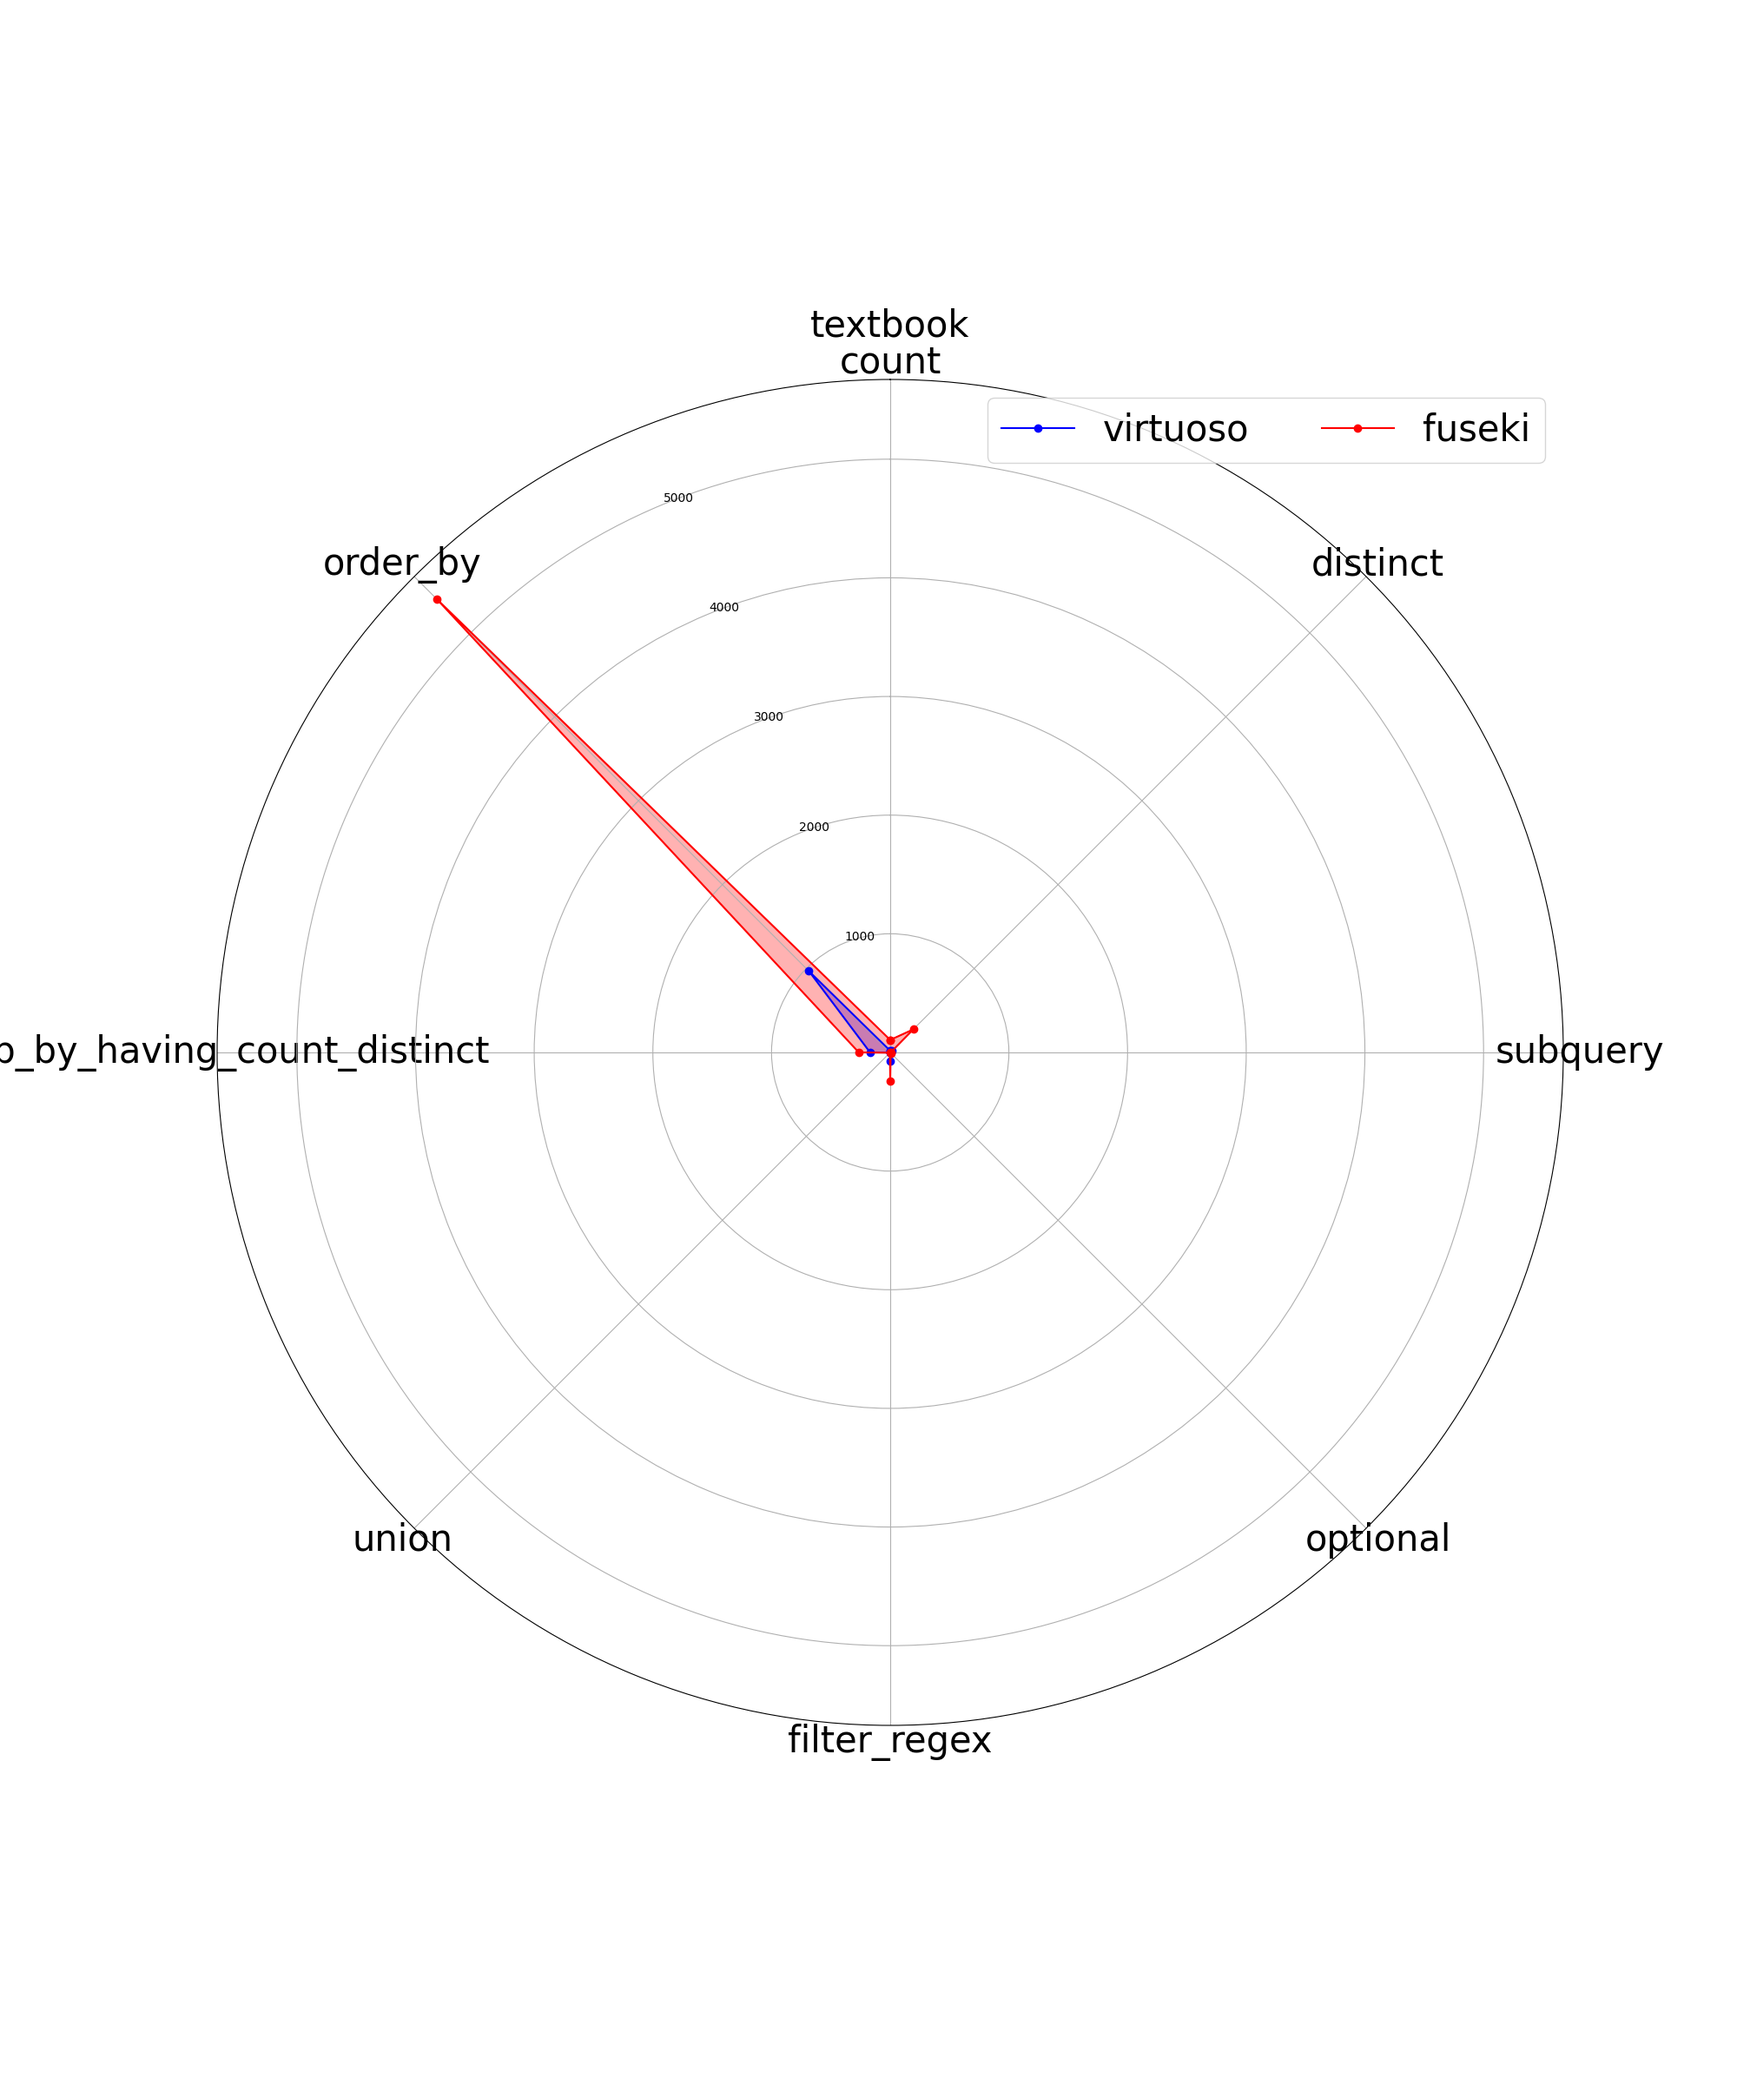
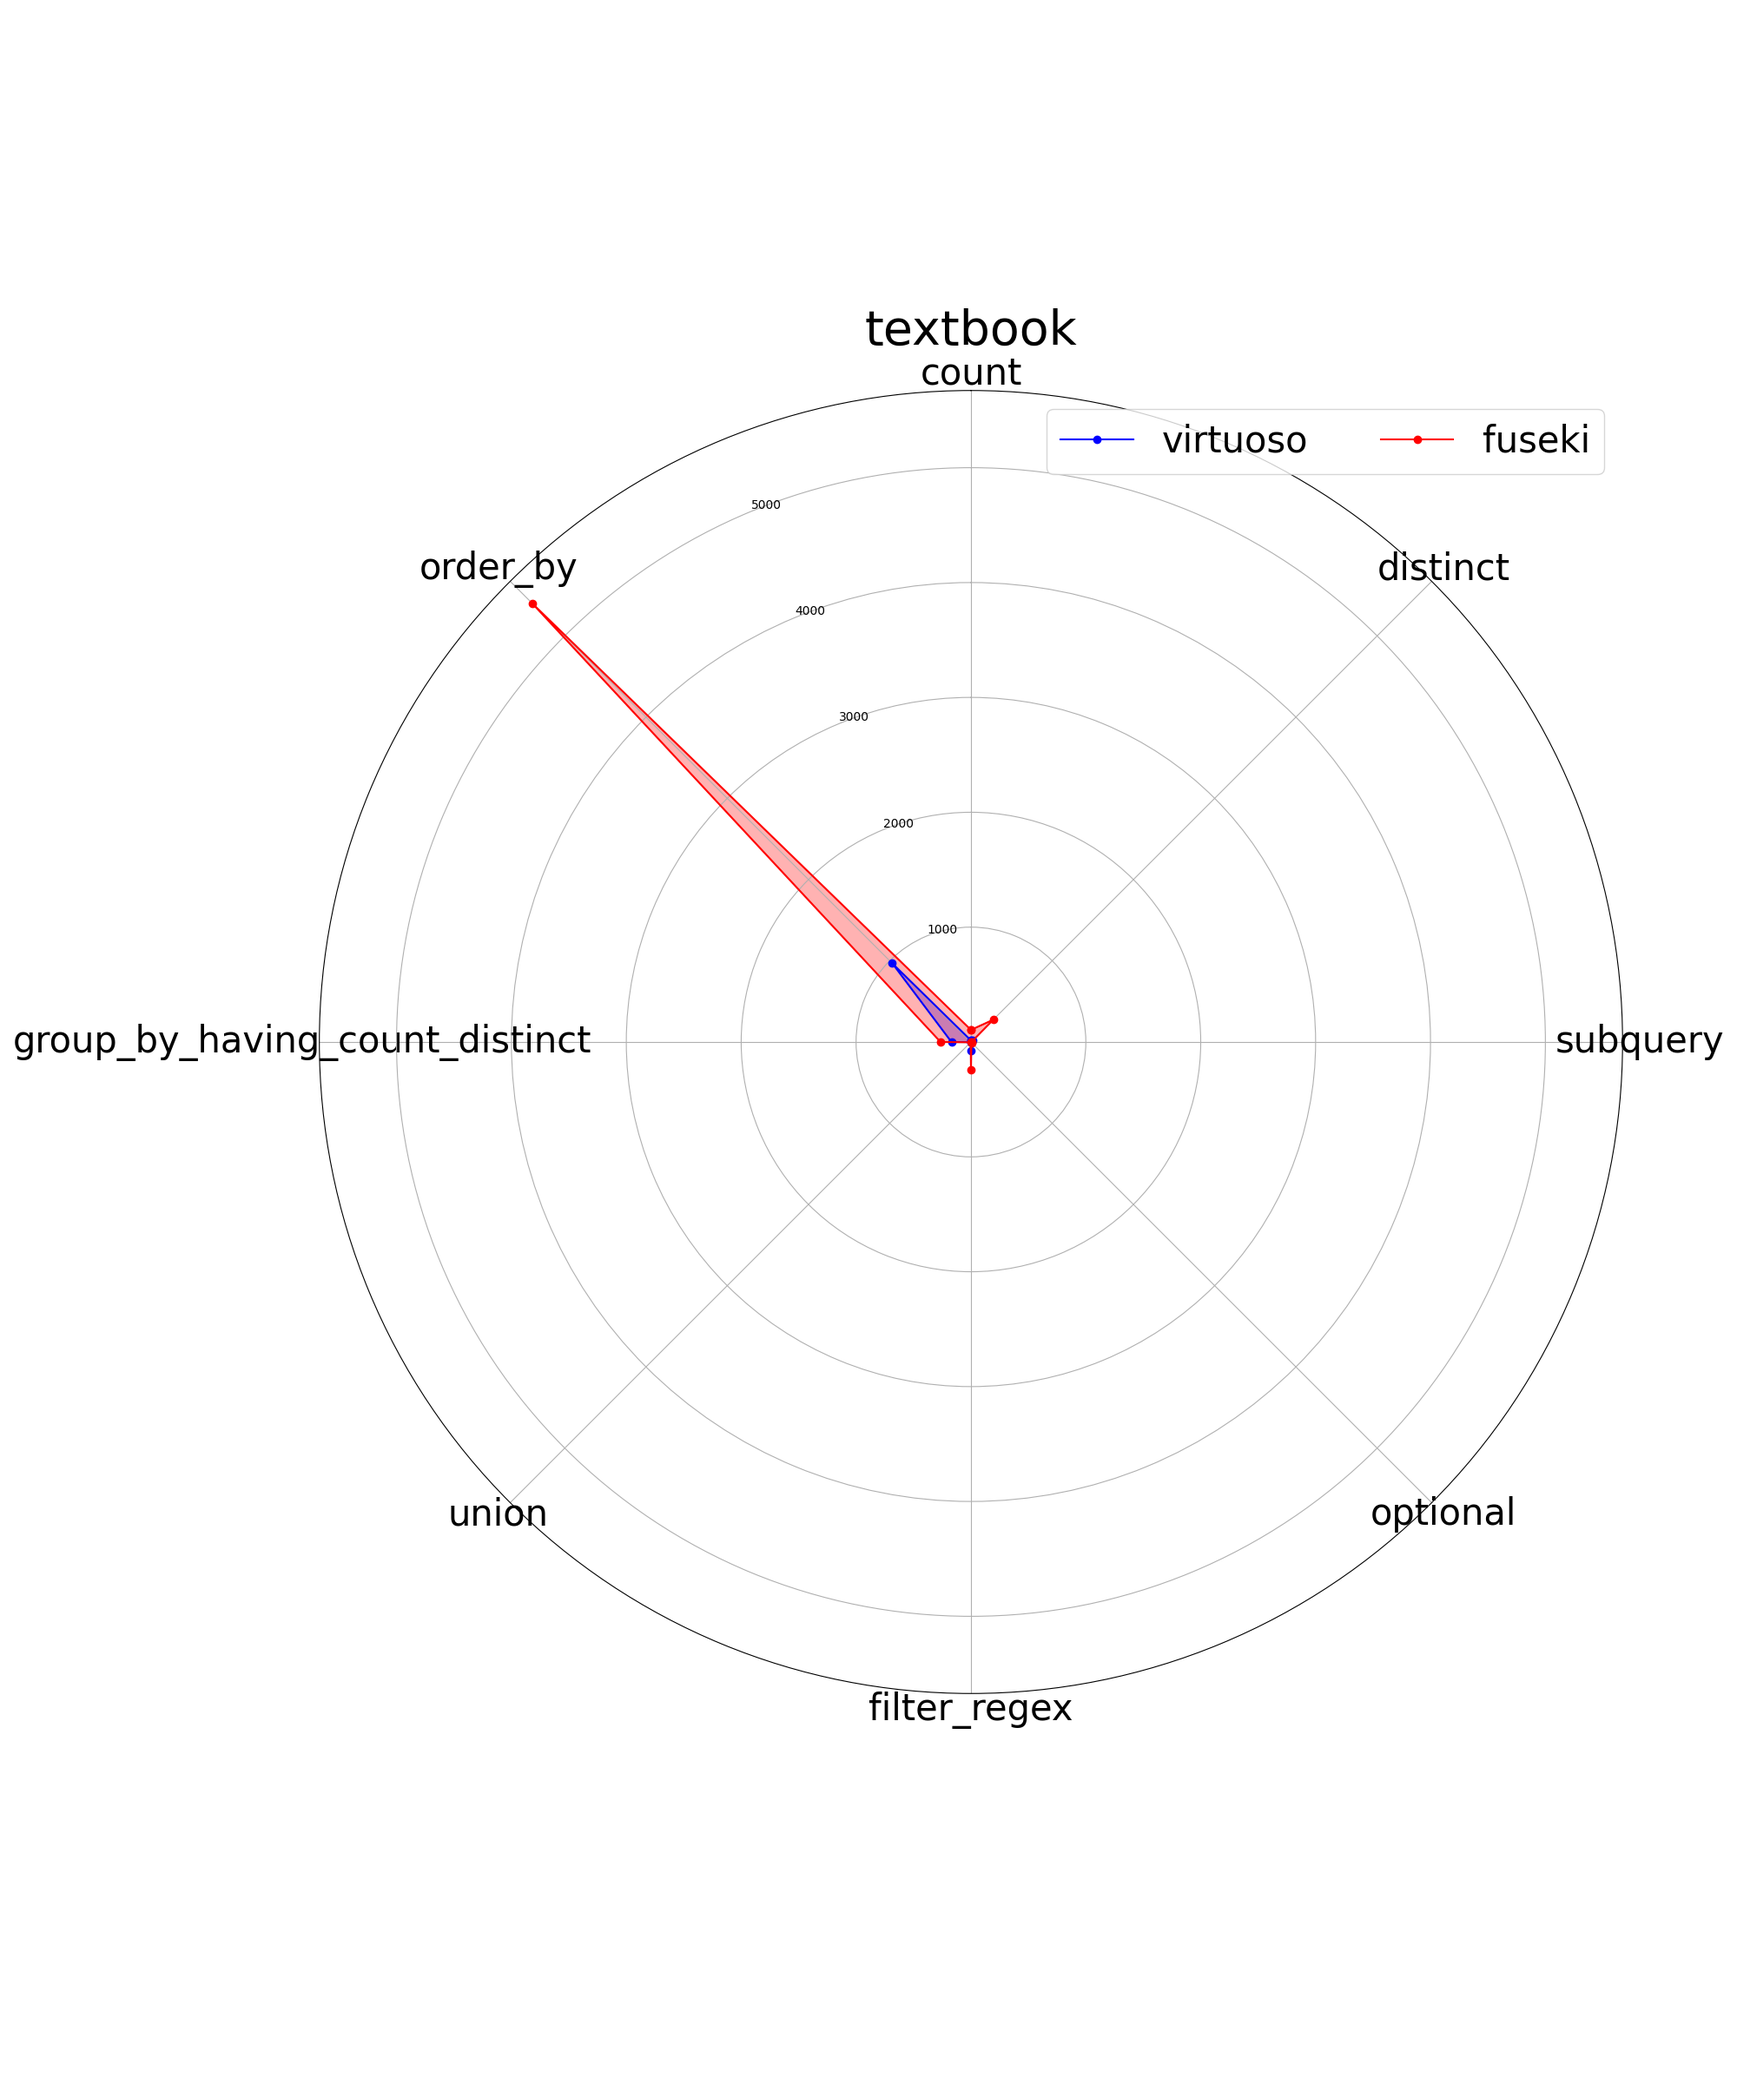
グラフの表示する文字サイズを変更

diff --git a/SPARQLendopoint_throughput_survey/visualize/multi_rador_chart_by_SPARQLendpoint.py b/SPARQLendopoint_throughput_survey/visualize/multi_rador_chart_by_SPARQLendpoint.py
@@ -86,7 +86,7 @@ for endpoint in data_per_SPARQLendpoint:
     angles_B = np.linspace(start=0, stop=2*np.pi, num=len(df[rdf_store_list[1]])+1, endpoint=True)
     values_B = np.concatenate((df[rdf_store_list[1]], [df[rdf_store_list[1]][0]]))
 
-    fig, ax = plt.subplots(1, 1, figsize=(20, 24), subplot_kw={'projection': 'polar'})
+    fig, ax = plt.subplots(1, 1, figsize=(20, 24), subplot_kw={'projection': 'polar'},tight_layout=True)
     ax.plot(angles_A, values_A, 'o-', color="blue", label=rdf_store_list[0])
     ax.plot(angles_B, values_B, 'o-', color="red", label=rdf_store_list[1])
     ax.fill(angles_A, values_A, alpha=0.3, color="blue")
@@ -96,7 +96,7 @@ for endpoint in data_per_SPARQLendpoint:
     ax.set_thetagrids(angles_B[:-1] * 180 / np.pi, df.index, fontsize=30)
     ax.set_theta_zero_location('N')
     gridlines = ax.yaxis.get_gridlines()
-    ax.set_title(endpoint, fontsize=30)
+    ax.set_title(endpoint, fontsize=40)
     ax.legend(bbox_to_anchor=(1, 1), loc='upper right', ncol=2, fontsize=30)
     if not os.path.exists("../output/rador_chart/by_SPARQLendpoint/" + input_file_name_1 +"_" +  input_file_name_2):
         os.makedirs("../output/rador_chart/by_SPARQLendpoint/" + input_file_name_1 +"_"+ input_file_name_2)

diff --git a/SPARQLendopoint_throughput_survey/visualize/multi_rador_chart_by_querytype.py b/SPARQLendopoint_throughput_survey/visualize/multi_rador_chart_by_querytype.py
@@ -86,7 +86,7 @@ for querytype in data_per_querytype:
     angles_B = np.linspace(start=0, stop=2*np.pi, num=len(df[rdf_store_list[1]])+1, endpoint=True)
     values_B = np.concatenate((df[rdf_store_list[1]], [df[rdf_store_list[1]][0]]))
 
-    fig, ax = plt.subplots(1, 1, figsize=(20, 24), subplot_kw={'projection': 'polar'})
+    fig, ax = plt.subplots(1, 1, figsize=(20, 24), subplot_kw={'projection': 'polar'}, tight_layout=True)
     ax.plot(angles_A, values_A, 'o-', color="blue", label=rdf_store_list[0])
     ax.plot(angles_B, values_B, 'o-', color="red", label=rdf_store_list[1])
     ax.fill(angles_A, values_A, alpha=0.3, color="blue")
@@ -96,7 +96,7 @@ for querytype in data_per_querytype:
     ax.set_thetagrids(angles_B[:-1] * 180 / np.pi, df.index, fontsize=30)
     ax.set_theta_zero_location('N')
     gridlines = ax.yaxis.get_gridlines()
-    ax.set_title(querytype, fontsize=30)
+    ax.set_title(querytype, fontsize=40)
     ax.legend(bbox_to_anchor=(1, 1), loc='upper right', ncol=2, fontsize=30)
     if not os.path.exists("../output/rador_chart/by_querytype/" + input_file_name_1 +"_" +  input_file_name_2):
         os.makedirs("../output/rador_chart/by_querytype/" + input_file_name_1 +"_"+ input_file_name_2)
